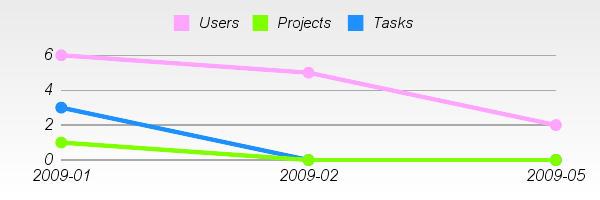
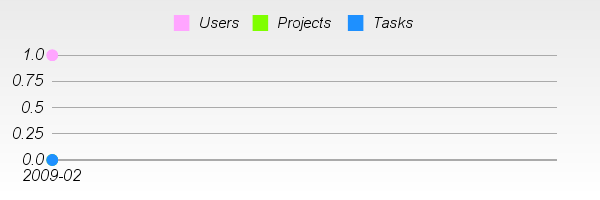
Mudado a database pra sqlite3

Changed region(s): [[0.03, 0.24, 0.99, 0.9], [0.03, 0.75, 0.15, 0.93]]

diff --git a/app/controllers/home_controller.rb b/app/controllers/home_controller.rb
@@ -9,7 +9,6 @@ class HomeController < ApplicationController
   	@tasks = Task.recent.all :limit => 5, :order => 'id desc'
   	@comments = Comment.recent.all :limit => 5, :order => 'id desc'
   	@connections = Connection.all :limit => 5, :order => 'id desc'
-  	stats
   end
 
   def stats
@@ -26,9 +25,10 @@ class HomeController < ApplicationController
     #g.font = File.expand_path('path/to/font.ttf', RAILS_ROOT)
  
     range = "created_at #{(6.months.ago.to_date..Date.today + 6.months).to_s(:db)}"
-    @stats_users = User.count(:all, :conditions => range, :group => "DATE_FORMAT(created_at, '%Y-%m')", :order =>"created_at ASC")
-    @stats_projects = Project.count(:all, :conditions => range, :group => "DATE_FORMAT(created_at, '%Y-%m')", :order =>"created_at ASC")
-    @stats_tasks = Task.count(:all, :conditions => range, :group => "DATE_FORMAT(created_at, '%Y-%m')", :order =>"created_at ASC")
+    #@stats_users = User.count(:all, :conditions => range, :group => "DATE_FORMAT(created_at, '%Y-%m')", :order =>"created_at ASC")
+    @stats_users = User.count(:all, :conditions => range, :group => "strftime('%Y-%m', created_at)", :order =>"created_at ASC")
+    @stats_projects = Project.count(:all, :conditions => range, :group => "strftime('%Y-%m', created_at)", :order =>"created_at ASC")
+    @stats_tasks = Task.count(:all, :conditions => range, :group => "strftime('%Y-%m', created_at)", :order =>"created_at ASC")
  
     # Take the union of all keys & convert into a hash {1 => "month", 2 => "month2"...}
     # - This will be the x-axis.. representing the date range

diff --git a/config/environment.rb b/config/environment.rb
@@ -24,13 +24,13 @@ Rails::Initializer.run do |config|
   # They can then be installed with "rake gems:install" on new installations.
   # You have to specify the :lib option for libraries, where the Gem name (sqlite3-ruby) differs from the file itself (sqlite3)
   # config.gem "bj"
-  #	config.gem "hpricot"
+  # config.gem "hpricot"
   # config.gem "sqlite3-ruby", :lib => "sqlite3"
   # config.gem "aws-s3", :lib => "aws/s3"
-  #	config.gem "brazilian-rails"
-	#	config.gem 'haml'
-	#	config.gem 'will_paginate', :lib => 'mislav-will_paginate', :source => 'http://gems.github.com'
-	#	config.gem "gruff"
+  # config.gem "brazilian-rails"
+  # config.gem 'haml'
+  # config.gem 'will_paginate', :lib => 'mislav-will_paginate', :source => 'http://gems.github.com'
+  # config.gem "gruff"
 
   # Only load the plugins named here, in the order given. By default, all plugins 
   # in vendor/plugins are loaded in alphabetical order.
@@ -82,12 +82,13 @@ Rails::Initializer.run do |config|
 end
 
 require 'rubygems'
+require 'sqlite3'
 require 'brhelper'
 require 'will_paginate'
 ActiveRecord::Base.time_zone_aware_attributes = false
 
 class Date
-	def to_s_br
-		strftime("%d/%m/%Y")
-	end
+  def to_s_br
+   strftime("%d/%m/%Y")
+  end
 end
